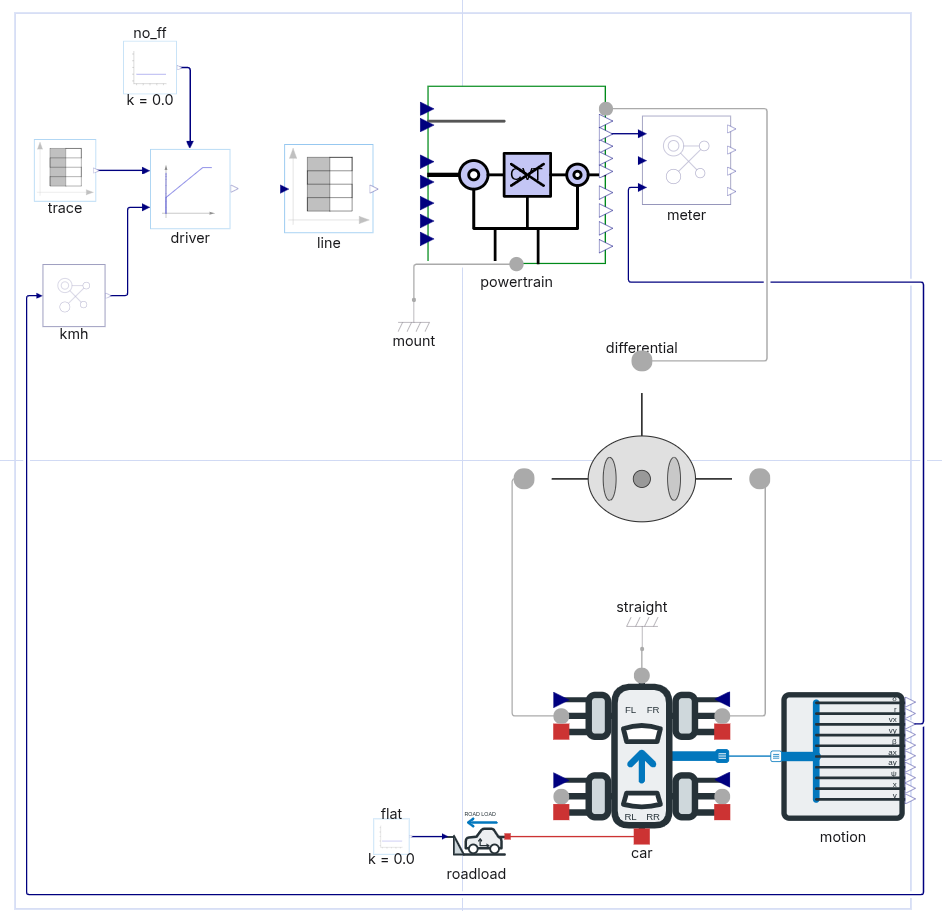
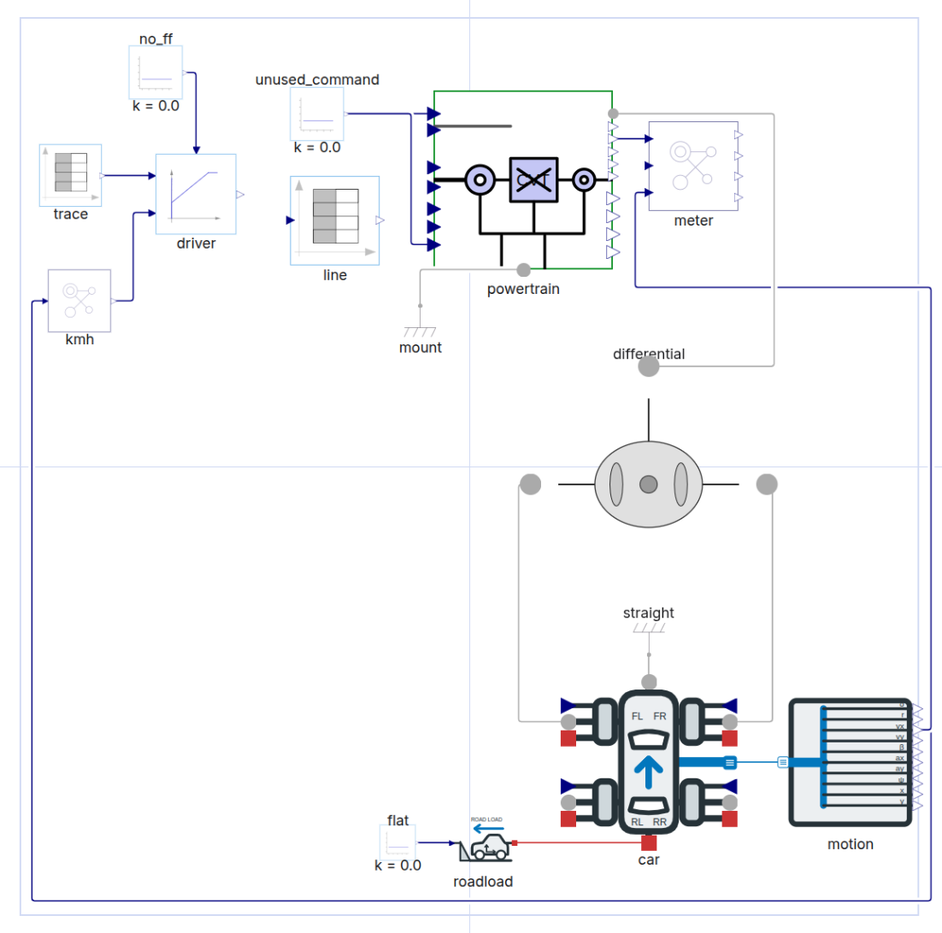
docs(lecture05): retake the Hands-on 05 diagram screenshots
The four guide screenshots still showed the models before every wire became drawable: no torque
command or export wires in P2Powertrain, and no zero constant, pedal limiter or machine gate in
the fixtures. They are retaken in Studio 3.5.1 at the same framing and width, and their alt
text now describes what each picture shows. The step-2 wiring note also names the
engine_torque_ref input that the zero constant feeds, as the listing and picture do.

Changed region(s): [[0.0, 0.0, 1.0, 1.0], [0.3079, 0.1228, 0.4002, 0.307], [0.1847, 0.2456, 0.2463, 0.2763]]

diff --git a/slides/site/lecture/lecture-05/index.md b/slides/site/lecture/lecture-05/index.md
@@ -84,7 +84,7 @@ On the canvas, trace engine → K0 → shared machine/variator input → variato
 
 :::
 
-[![Studio diagram of HandsOn05.P2Powertrain: input ports on the left, engine, K0, hybrid drive and variator left to right with the torque command below the shaft chain, output ports and the spline on the right, the housing support at the bottom](/lecture/lecture-05/img/step01-p2-powertrain.png)](/lecture/lecture-05/img/step01-p2-powertrain.png)
+[![Studio diagram of HandsOn05.P2Powertrain: command inputs on the left; engine, K0 and variator on one shaft with the hold hanging from it; the hybrid drive below, joining the shaft between K0 and the variator and fed by the torque command; every export wired from engine, K0 and drive to an output port on the right, the spline beside the variator, all housings wired to the support at the bottom](/lecture/lecture-05/img/step01-p2-powertrain.png)](/lecture/lecture-05/img/step01-p2-powertrain.png)
 
 The reference already carries the step-3 ports `engine_on` and `engine_torque_ref`. All shaft, command and export connections are outside structural branches and are drawable in Studio.
 
@@ -305,7 +305,7 @@ analysis P2ElectricWLTCTransient
 end
 ```
 
-[![Studio diagram of the P2WLTC fixture: drive cycle, PI driver and torque split feeding the P2 powertrain, which turns the planar car's front wheels through the differential; road load below the car, vehicle-speed feedback to the driver and the fuel meter on the right](/lecture/lecture-05/img/step01-p2wltc-fixture.png)](/lecture/lecture-05/img/step01-p2wltc-fixture.png)
+[![Studio diagram of the P2WLTC fixture: drive cycle, PI driver, torque split and machine gate in one line into the powertrain's torque request; a zero constant wired to the unused N_ref and engine-torque inputs and the pedal limiter to the CVT pedal; the powertrain turns the planar car's front wheels through the differential, with road load below the car, vehicle-speed feedback to the driver and split, and the fuel meter beside the powertrain](/lecture/lecture-05/img/step01-p2wltc-fixture.png)](/lecture/lecture-05/img/step01-p2wltc-fixture.png)
 
 #### Fell behind?
 
@@ -514,7 +514,7 @@ parameter Ti::Time = 1.0
 
 #### Every connection
 
-`speed_commanded = true` selects `N_ref` on the existing `variator`; both command and mechanical connections remain drawn. The fixture adds no variator of its own; it drives `powertrain.N_ref` and wires the ignored `cvt_pedal` input to the visible zero constant.
+`speed_commanded = true` selects `N_ref` on the existing `variator`; both command and mechanical connections remain drawn. The fixture adds no variator of its own; it drives `powertrain.N_ref` and wires the ignored `cvt_pedal` and `engine_torque_ref` inputs to the visible zero constant.
 
 In the fixture, place `unused_command = BlockComponents.Sources.Constant(k = 0.0)` and wire:
 
@@ -652,7 +652,7 @@ sampled engine-speed minimum is 815.95 rpm on `0:0.01:1800`, not a continuous-ti
 
 :::
 
-[![Studio diagram of the operating-line WLTC fixture: driver, operating-line table and P2 powertrain, which turns the planar car through the differential; road load, speed feedback and fuel meter](/lecture/lecture-05/img/step02-operating-line-diagram.png)](/lecture/lecture-05/img/step02-operating-line-diagram.png)
+[![Studio diagram of the operating-line WLTC fixture: drive cycle, PI driver, operating-line table and a zero constant wired to the powertrain's ignored CVT pedal and engine-torque inputs; the P2 powertrain turns the planar car through the differential, with road load, speed feedback and fuel meter](/lecture/lecture-05/img/step02-operating-line-diagram.png)](/lecture/lecture-05/img/step02-operating-line-diagram.png)
 
 #### Fell behind?
 
@@ -877,7 +877,7 @@ the efficient-speed target. Charging raises engine load and generates the surplu
 adds machine torque above the 30 kW line cap. During deceleration the existing regen blend
 uses the machine first and sends the remainder to friction brakes.
 
-[![Studio diagram of P2HybridWLTC: driver demand into the energy manager, whose outputs drive the torque-to-pedal map and the powertrain; engine speed, available torque and SoC loop back under the manager; operating-line tables above; planar car, road load and fuel meter as in step 2](/lecture/lecture-05/img/step03-hybrid-diagram.png)](/lecture/lecture-05/img/step03-hybrid-diagram.png)
+[![Studio diagram of P2HybridWLTC: driver demand into the energy manager, whose outputs drive the torque-to-pedal map and the powertrain; engine speed, available torque and SoC loop back under the manager; operating-line tables above; a zero constant below the powertrain feeds its ignored CVT pedal; planar car, road load and fuel meter as in step 2](/lecture/lecture-05/img/step03-hybrid-diagram.png)](/lecture/lecture-05/img/step03-hybrid-diagram.png)
 
 ### Code view required — energy accounting and analysis
 
